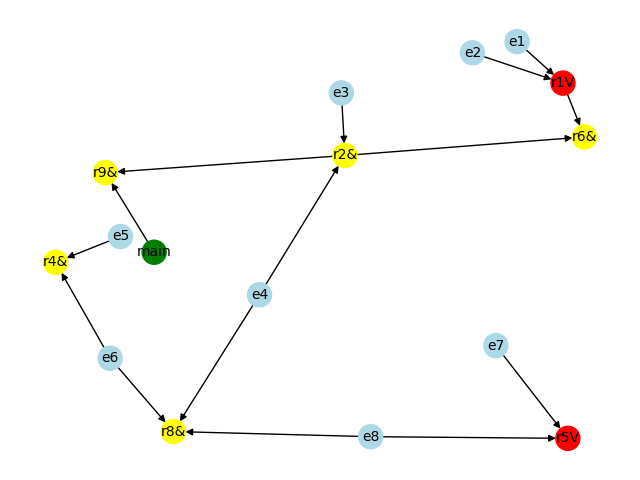
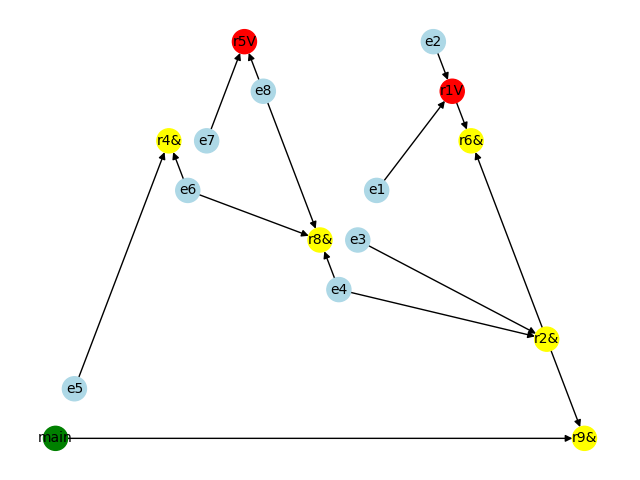
javitasok
graph layout javitas
fo ablakban elrendezes javitas

diff --git a/app/diagram_networkx.py b/app/diagram_networkx.py
@@ -2,7 +2,7 @@ import networkx as nx
 import matplotlib.pyplot as plt
 from app.db import conn
 
-from networkx.drawing.nx_agraph import graphviz_layout
+
 
 
 ### init new graph
@@ -65,10 +65,10 @@ for i in array_relations:
     logic_gate=i[2]
     member_list=members.split(",")
     for m in member_list:
-        G.add_edge(m,relation_id,lenght=50)
+        G.add_edge(m,relation_id,lenght="100")
 
-#pos=nx.spring_layout(G,scale=10)
-pos = graphviz_layout(G, prog='dot')
+#pos=nx.spring_layout(G,scale=100,weight="100")
+pos=nx.planar_layout(G,scale=3)
 #print(list(G.nodes))
 print(list(G.edges))
 #print(labeldict)
